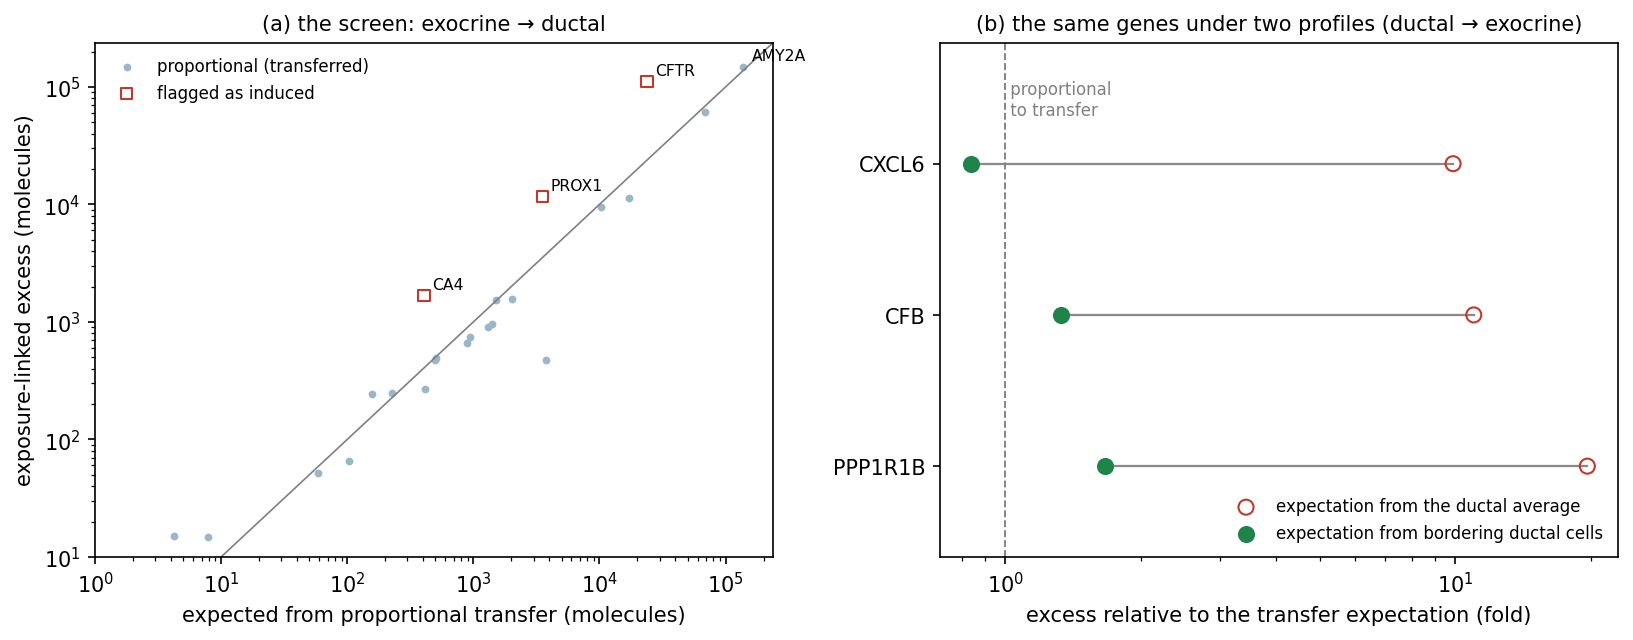
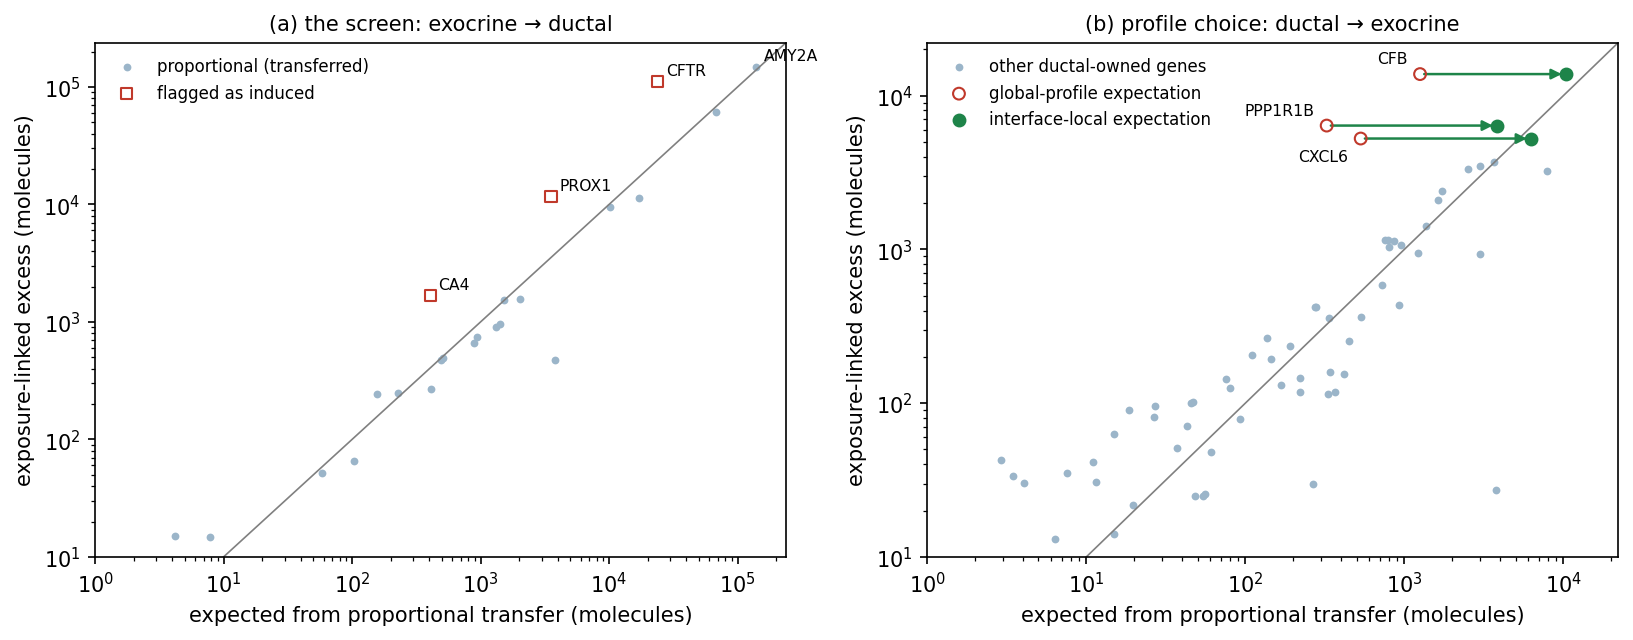
Restore the screen-data panel and explain its reading plainly

diff --git a/analysis/generative_model/05_figure.py b/analysis/generative_model/05_figure.py
@@ -245,42 +245,46 @@ axa.set_ylabel("exposure-linked excess (molecules)")
 axa.set_title("(a) the screen: exocrine → ductal", fontsize=10)
 axa.legend(frameon=False, fontsize=8, loc="upper left")
 
-# (b) the three activation genes of the ductal -> exocrine pair, shown as
-# their measured excess relative to the transfer expectation under two
-# profiles: computed from the ductal average, the excess looks severalfold
-# disproportionate (would be flagged as induced); computed from the ductal
-# cells that actually border exocrine tissue, it is proportional.
+# (b) the same test for ductal -> exocrine under the global versus the
+# interface-local ductal profile: the activation genes CXCL6/CFB/PPP1R1B
+# sit far off the proportional line under the global profile and move
+# onto it when the expectation uses the ductal cells that actually border
+# exocrine tissue.
 P_B = "Ductal/tumor epithelial -> Exocrine epithelial"
 S_B, T_B = "Ductal/tumor epithelial", "Exocrine epithelial"
 psi_int = zeroed_profile(inp.near_source_profile(S_B, T_B), T_B)
 psi_glob = zeroed_profile(inp.psi_raw[S_B], T_B)
 gset_b, exc_b, expct_i, z_i = screen_fit(P_B, psi_int)
 _, _, expct_g, z_g = screen_fit(P_B, psi_glob)
-genes3 = ["CXCL6", "CFB", "PPP1R1B"]
-yy = np.arange(len(genes3))[::-1]
-for yi, gname in zip(yy, genes3):
-    gi = inp.gene_of[gname]
+okb = (exc_b > 10) & (expct_i > 1)
+axb.scatter(expct_i[okb], exc_b[okb], s=14, color="#9bb5c9", lw=0,
+            label="other ductal-owned genes")
+limb = [1, max(exc_b.max(), expct_i.max()) * 1.6]
+axb.plot(limb, limb, color="grey", lw=0.8)
+for gname in ["CXCL6", "CFB", "PPP1R1B"]:
+    gi = inp.gene_of.get(gname)
+    if gi is None or gi not in gset_b:
+        continue
     k = int(np.flatnonzero(gset_b == gi)[0])
-    fg = exc_b[k] / max(expct_g[k], 1e-9)
-    fi = exc_b[k] / max(expct_i[k], 1e-9)
-    axb.plot([fg, fi], [yi, yi], color="#8a8a8a", lw=1.1, zorder=2)
-    axb.scatter([fg], [yi], s=52, facecolors="none", edgecolors="#c0392b",
-                zorder=3)
-    axb.scatter([fi], [yi], s=52, color="#1e8449", zorder=3)
-axb.axvline(1.0, color="grey", lw=0.9, ls="--")
-axb.text(1.0, len(genes3) - 0.45, " proportional\n to transfer", fontsize=8,
-         color="grey", va="top")
-axb.scatter([], [], s=52, facecolors="none", edgecolors="#c0392b",
-            label="expectation from the ductal average")
-axb.scatter([], [], s=52, color="#1e8449",
-            label="expectation from bordering ductal cells")
-axb.set_xscale("log")
-axb.set_yticks(yy, genes3)
-axb.set_ylim(-0.6, len(genes3) - 0.2)
-axb.set_xlabel("excess relative to the transfer expectation (fold)")
-axb.set_title("(b) the same genes under two profiles (ductal → exocrine)",
-              fontsize=10)
-axb.legend(frameon=False, fontsize=8, loc="lower right")
+    axb.annotate("", xy=(expct_i[k], exc_b[k]), xytext=(expct_g[k], exc_b[k]),
+                 arrowprops=dict(arrowstyle="-|>", color="#1e8449", lw=1.2))
+    axb.scatter([expct_g[k]], [exc_b[k]], s=32, marker="o",
+                facecolors="none", edgecolors="#c0392b", zorder=5)
+    axb.scatter([expct_i[k]], [exc_b[k]], s=32, marker="o",
+                color="#1e8449", zorder=5)
+    dy = -11 if gname == "CXCL6" else 5
+    axb.annotate(gname, (expct_g[k], exc_b[k]), fontsize=7.5,
+                 xytext=(-6, dy), textcoords="offset points", ha="right")
+axb.scatter([], [], s=32, marker="o", facecolors="none",
+            edgecolors="#c0392b", label="global-profile expectation")
+axb.scatter([], [], s=32, marker="o", color="#1e8449",
+            label="interface-local expectation")
+axb.set_xscale("log"); axb.set_yscale("log")
+axb.set_xlim(limb); axb.set_ylim([10, limb[1]])
+axb.set_xlabel("expected from proportional transfer (molecules)")
+axb.set_ylabel("exposure-linked excess (molecules)")
+axb.set_title("(b) profile choice: ductal → exocrine", fontsize=10)
+axb.legend(frameon=False, fontsize=8, loc="upper left")
 
 fig2.tight_layout()
 fig2.savefig(os.path.join(OUT, "generative_fig2.png"), dpi=150,

diff --git a/docs/generative.md b/docs/generative.md
@@ -115,32 +115,50 @@ To be explicit about the reference of the comparison: each gene is
 tested individually against the proportional fit to the *source-cell
 profile* — there is no induced-profile template, and no correlation
 among induced genes is assumed or used. Figure 2a shows the test on the
-exocrine → ductal pair: the exposure-linked excess of the source-owned
-genes lies on the proportional line across three orders of magnitude —
-AMY2A, the largest transfer channel, sits exactly on it — while CFTR,
-PROX1 and CA4 sit severalfold above it and are flagged. Figure 2b shows
-why the profile must be interface-local: on the ductal → exocrine pair,
-the excess of the activation genes CXCL6, CFB and PPP1R1B measures ten-
-to twenty-fold disproportionate against the ductal-average profile, but
-proportional (0.9- to 1.8-fold) against the profile of the ductal cells
-that actually border exocrine tissue — their excess is transfer from
-activated edge cells, and only the interface-local profile prices it
-correctly.
+exocrine → ductal pair. Each point is one exocrine-owned gene; its
+vertical position is the measured excess — how many extra molecules of
+that gene appear in ductal cells as exocrine neighbors accumulate — and
+its horizontal position is how many extra molecules proportional
+transfer would deliver, given the gene's share of the exocrine profile.
+A gene on the diagonal is fully accounted for by transfer. The genes
+line up on the diagonal across three orders of magnitude — AMY2A, the
+largest channel, sits exactly on it — while CFTR, PROX1 and CA4 carry
+several times more excess than transfer can deliver, and are flagged.
+
+Figure 2b shows, on the reverse pair (ductal cells the source, exocrine
+cells the target), why the transfer expectation must come from the
+bordering source cells. The grey points are all ductal-owned genes with
+the expectation computed from the bordering ductal cells — these are
+the data the proportional fit is made from, and they line up on the
+diagonal. The activation genes CXCL6, CFB and PPP1R1B are drawn twice:
+an open circle at the expectation computed from the average ductal
+cell, and a filled point at the expectation computed from the ductal
+cells that border exocrine tissue, with an arrow connecting the two
+positions of the same gene. The measured excess — the vertical position
+— is the same in both cases; only the expectation moves. Against the
+average profile the three genes appear to carry ten to twenty times
+more excess than transfer could deliver, and would be called induced.
+Against the profile of the bordering cells, which genuinely express
+these genes 1.1–1.6 times above the ductal average, the same excess is
+exactly what transfer delivers, and the genes land on the diagonal:
+transfer, not induction.
 
 ![Figure 2](figures/generative_fig2.png)
 
-**Figure 2. What the screen compares.** **(a)** Per-gene exposure-linked
-excess in ductal cells against the expectation from proportional
-exocrine transfer (interface-local profile); grey: source-owned genes on
-the proportional line, red squares: genes flagged as induced. **(b)**
-For the three activation genes of the ductal → exocrine pair, the ratio
-of measured excess to the transfer expectation, computed two ways: from
-the ductal-average profile (open red) and from the profile of the
-ductal cells bordering exocrine tissue (filled green). The dashed line
-marks proportionality: the apparent ten- to twenty-fold
-disproportionality is an artifact of the average profile and vanishes
-when the expectation reflects the cells the material actually comes
-from.
+**Figure 2. What the screen compares.** **(a)** Each point is one
+exocrine-owned gene in the exocrine → ductal pair: measured excess in
+ductal cells (vertical) against the excess that proportional transfer
+would deliver given the gene's share of the interface-local exocrine
+profile (horizontal). The diagonal means "fully accounted for by
+transfer"; red squares are the genes flagged as induced. **(b)** The
+reverse pair, ductal → exocrine, same axes. Grey: all ductal-owned
+genes under the expectation from the bordering ductal cells — the data
+the proportional fit is made from. CXCL6, CFB and PPP1R1B appear twice,
+connected by an arrow: at the expectation from the average ductal
+profile (open red) and from the bordering ductal cells (filled green).
+Their measured excess does not change between the two — only the
+expectation does — and with the profile of the cells the material
+actually comes from, all three sit on the diagonal.
 
 A separate question is how a flagged gene is known to be induced rather
 than admixed from a *different* source type. Three mechanisms address
